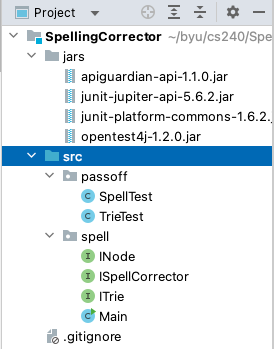
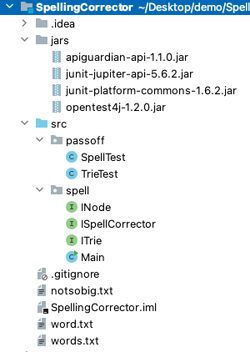
enhance(speller) setup instructions

diff --git a/spelling-corrector/setup/setup.md b/spelling-corrector/setup/setup.md
@@ -16,9 +16,11 @@ Create your project the location where you want to store you work for this cours
 
 ## Copy the Starter Code
 
-Copy the [Starter code](../starter-code) `jars` folder to the main folder of your project.
+Copy the [Starter code](../starter-code) `jars` folder to the main folder of your project. These are the zipped up byte-code classes that run the tests.
 
-Copy the [Starter code](../starter-code) `spell` and `passoff` folders to the `src` folder of your project.
+Copy the [Starter code](../starter-code) `txt` files to the main folder of your project. These are the dictionary files used by the tests.
+
+Copy the [Starter code](../starter-code) `spell` and `passoff` folders to the `src` folder of your project. These are the interfaces you need to implement and the tests that must pass in order to complete the project.
 
 When you are done copying the starter code your project should look similar to the following. You’ll see a lot of red errors, but that is okay for now.
 
